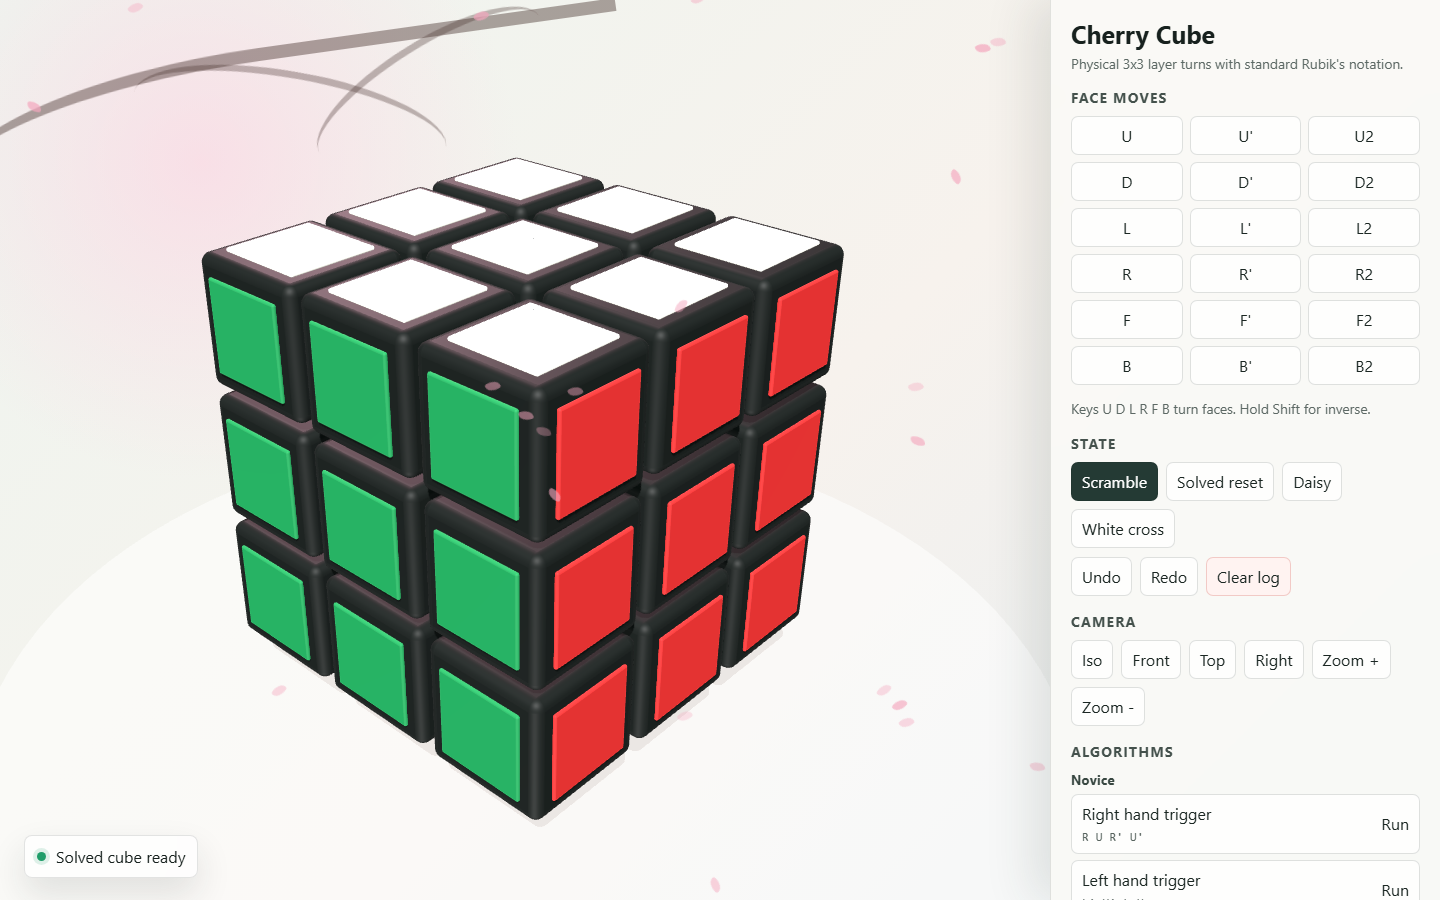
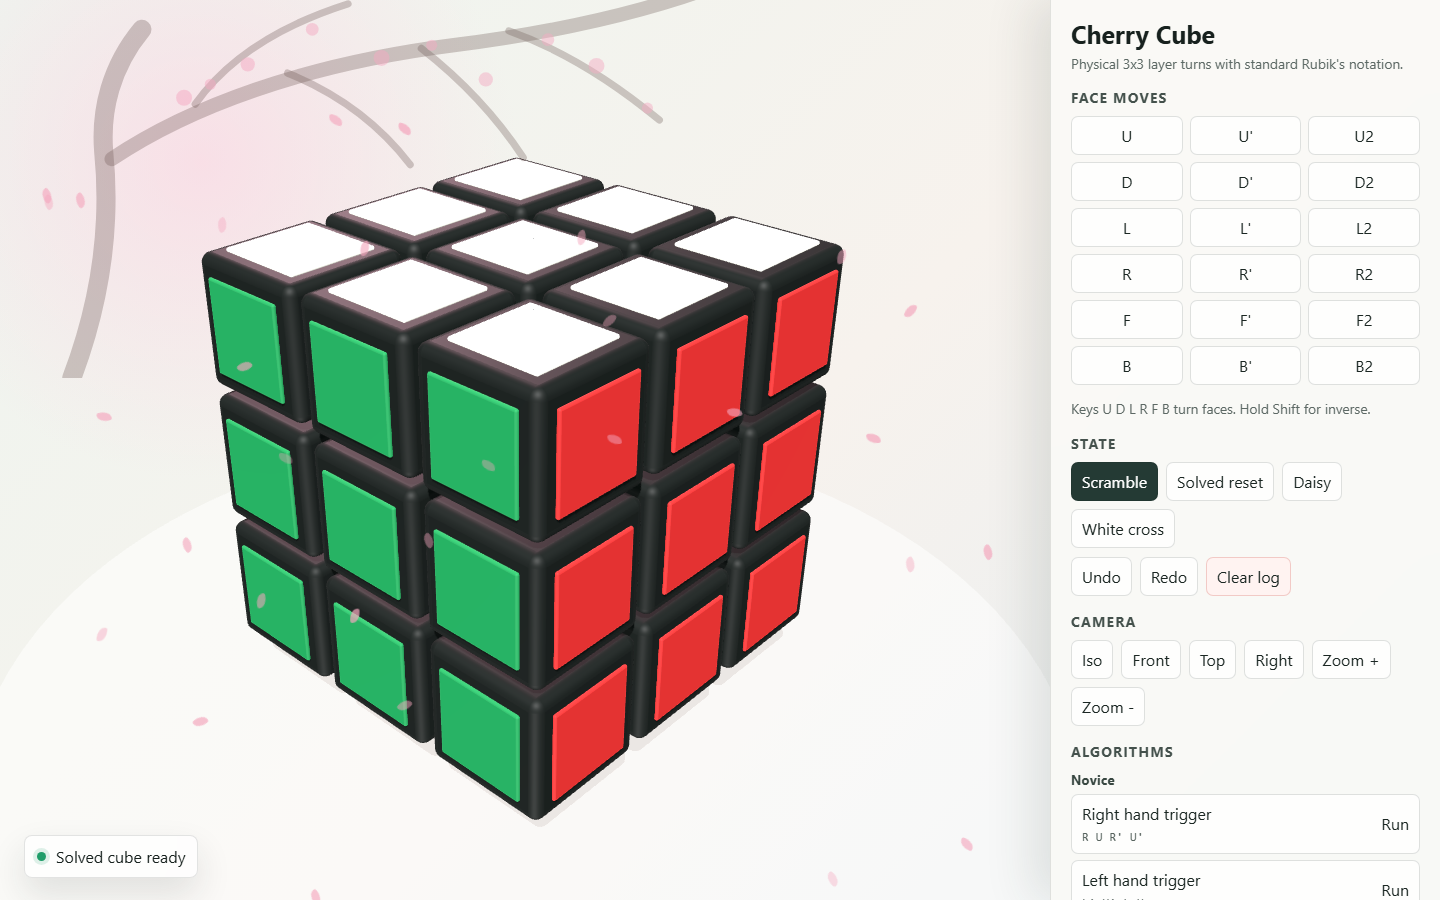
Add distributable static package

diff --git a/src/main.js b/src/main.js
@@ -78,7 +78,26 @@ class CherryCubeApp {
     document.querySelector('#app').innerHTML = `
       <main class="app-shell">
         <section class="scene-wrap" aria-label="Interactive 3D Rubik's cube">
-          <div class="branch" aria-hidden="true"></div>
+          <svg class="tree" viewBox="0 0 900 520" aria-hidden="true" focusable="false">
+            <path class="tree-trunk" d="M83 520 C117 430 133 334 123 235 C119 184 132 129 171 82" />
+            <path class="tree-limb main" d="M133 245 C230 180 374 126 563 102 C674 88 792 65 900 24" />
+            <path class="tree-limb" d="M238 176 C279 118 342 78 430 50" />
+            <path class="tree-limb" d="M354 137 C418 163 469 201 508 252" />
+            <path class="tree-limb" d="M522 106 C572 145 615 190 650 243" />
+            <path class="tree-limb" d="M632 84 C694 106 757 143 821 196" />
+            <g class="tree-blossoms">
+              <circle cx="224" cy="168" r="10" />
+              <circle cx="257" cy="151" r="7" />
+              <circle cx="304" cy="126" r="9" />
+              <circle cx="385" cy="82" r="8" />
+              <circle cx="472" cy="118" r="10" />
+              <circle cx="535" cy="102" r="7" />
+              <circle cx="603" cy="145" r="9" />
+              <circle cx="681" cy="95" r="8" />
+              <circle cx="742" cy="128" r="10" />
+              <circle cx="806" cy="181" r="7" />
+            </g>
+          </svg>
           <div id="blossoms" aria-hidden="true"></div>
           <canvas id="scene" data-testid="cube-canvas"></canvas>
           <div class="hud">
@@ -451,6 +470,10 @@ class CherryCubeApp {
     this.enqueueMany(moves, { source: label });
     if (label === 'Daisy') {
       this.camera.position.set(5.8, -4.7, 6.2);
+      this.controls.target.set(0, 0, 0);
+      this.controls.update();
+    } else if (label === 'White cross') {
+      this.camera.position.set(4.2, 7.2, 4.2);
       this.controls.target.set(0, 0, 0);
       this.controls.update();
     }

diff --git a/src/styles.css b/src/styles.css
@@ -49,40 +49,39 @@ input {
   display: block;
 }
 
-.branch {
+.tree {
   position: absolute;
-  left: -4vw;
-  top: 5vh;
-  width: 48vw;
-  height: 24vh;
-  border-top: 13px solid rgba(65, 43, 39, 0.42);
-  border-radius: 48% 0 0 0;
-  transform: rotate(-8deg);
+  left: -6vw;
+  top: -4vh;
+  width: min(72vw, 900px);
+  height: min(46vh, 520px);
+  opacity: 0.72;
   pointer-events: none;
+  z-index: 0;
 }
 
-.branch::before,
-.branch::after {
-  content: "";
-  position: absolute;
-  border-top: 7px solid rgba(65, 43, 39, 0.32);
-  border-radius: 50%;
+.tree-trunk,
+.tree-limb {
+  fill: none;
+  stroke: rgba(69, 47, 42, 0.34);
+  stroke-linecap: round;
+  stroke-linejoin: round;
 }
 
-.branch::before {
-  left: 28%;
-  top: 14px;
-  width: 22vw;
-  height: 10vh;
-  transform: rotate(18deg);
+.tree-trunk {
+  stroke-width: 24;
 }
 
-.branch::after {
-  left: 53%;
-  top: 3px;
-  width: 18vw;
-  height: 9vh;
-  transform: rotate(-24deg);
+.tree-limb.main {
+  stroke-width: 18;
+}
+
+.tree-limb {
+  stroke-width: 9;
+}
+
+.tree-blossoms circle {
+  fill: rgba(244, 145, 178, 0.48);
 }
 
 .blossom {

diff --git a/tests/rubiks.spec.js b/tests/rubiks.spec.js
@@ -79,6 +79,7 @@ test('desktop presets, algorithm queue, camera controls, and mouse orbit', async
   await page.getByTestId('white-cross').click();
   await waitForCube(page);
   await expect(page.getByTestId('move-log')).toContainText('White cross');
+  expect(await page.evaluate(() => window.__cherryCube.isSolved())).toBe(false);
   await page.screenshot({ path: 'verification-screenshots/desktop-06-white-cross.png' });
 
   await page.getByTestId('algorithm-novice-right-hand-trigger').click();

diff --git a/src/cube.js b/src/cube.js
@@ -103,7 +103,7 @@ export function makeScramble(length = 24) {
 }
 
 export const DAISY_SEQUENCE = parseMoves("F2 R2 B2 L2");
-export const WHITE_CROSS_SEQUENCE = parseMoves("U2");
+export const WHITE_CROSS_SEQUENCE = parseMoves("U' D2 B2 D2 L' F2 B2 D2 B2 L");
 
 export function rotateVectorArray(values, axis, angle) {
   const [x, y, z] = values;

diff --git a/vite.config.js b/vite.config.js
@@ -1,0 +1,8 @@
+import { defineConfig } from 'vite';
+
+export default defineConfig({
+  base: './',
+  build: {
+    chunkSizeWarningLimit: 700
+  }
+});

diff --git a/README.md b/README.md
@@ -17,6 +17,16 @@ Open the local URL printed by Vite, usually `http://127.0.0.1:5173/`.
 npm run build
 ```
 
+The static production build is written to `dist/`.
+
+## Package For Distribution
+
+```bash
+npm run dist:zip
+```
+
+This creates `release/cherry-cube-static.zip`. On Windows, recipients can unzip it and double-click `cherry-cube/start-cherry-cube.cmd`, which starts a tiny local server and opens the app. The same folder can also be served with any static web server.
+
 ## Verify
 
 ```bash
